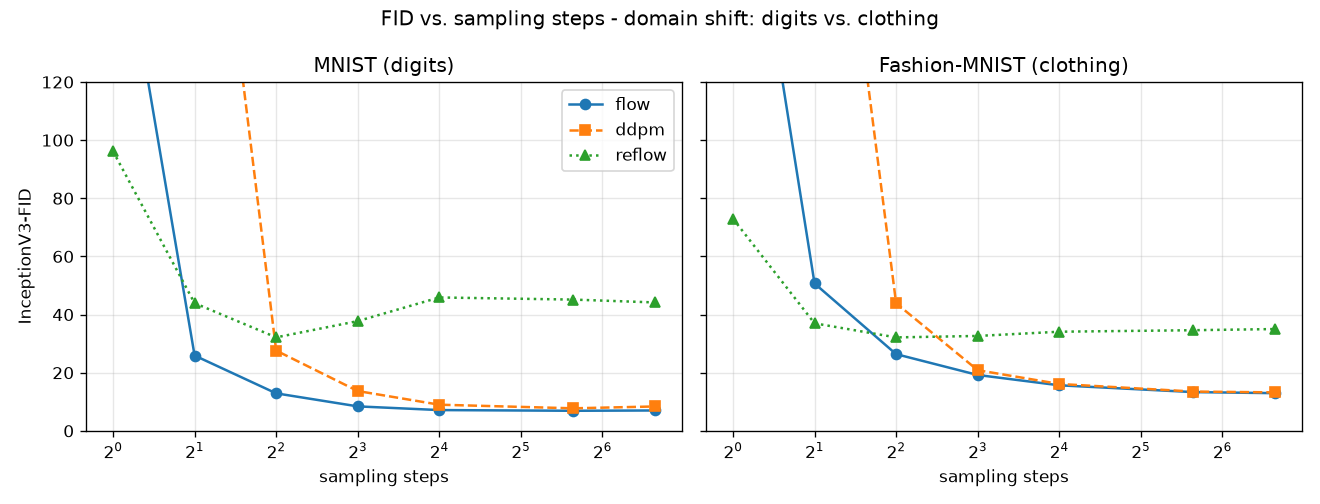
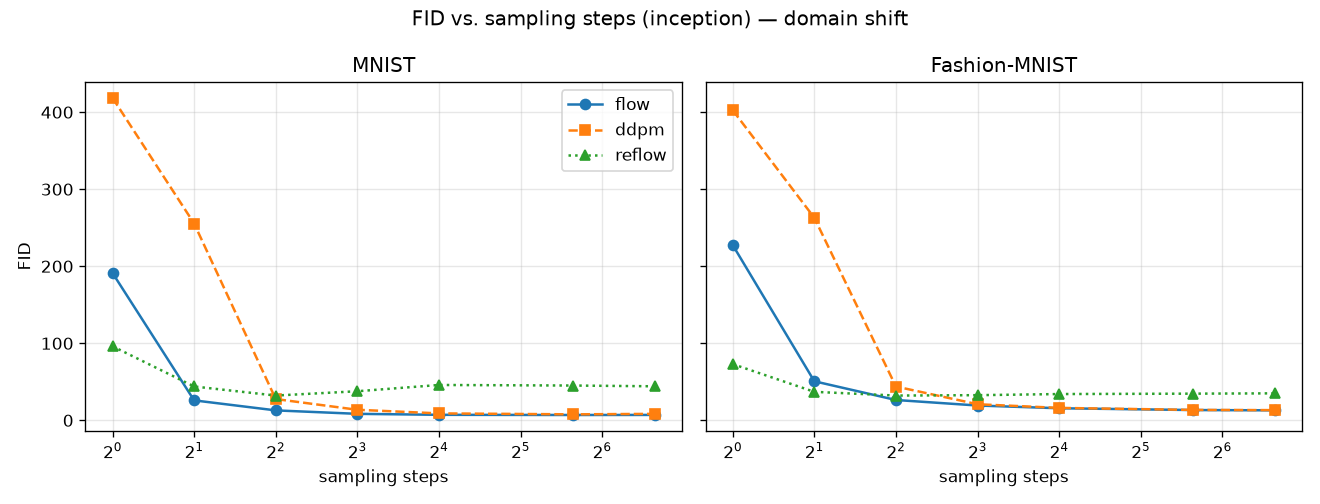
make the domain comparison reproducible, add fashion figures, tests and license

diff --git a/scripts/compare_datasets.py b/scripts/compare_datasets.py
@@ -1,0 +1,38 @@
+import argparse
+import json
+from pathlib import Path
+
+from fmfs.utils import save_comparison
+
+
+def parse_args() -> argparse.Namespace:
+    p = argparse.ArgumentParser(description="Side-by-side FID-vs-steps comparison across datasets.")
+    p.add_argument(
+        "--panels",
+        nargs="+",
+        default=["MNIST=figures/mnist/fid.json", "Fashion-MNIST=figures/fashion/fid.json"],
+        help="entries of the form label=path/to/fid.json",
+    )
+    p.add_argument("--metric", default="inception", help="metric key inside the json")
+    p.add_argument("--steps", default="1,2,4,8,16,50,100")
+    p.add_argument("--out", default="figures/comparison/fid_vs_steps_inception.png")
+    return p.parse_args()
+
+
+def main() -> None:
+    args = parse_args()
+    steps = [int(s) for s in args.steps.split(",")]
+    panels = []
+    for entry in args.panels:
+        label, path = entry.split("=", 1)
+        panels.append((label, json.load(open(path))[args.metric]))
+
+    out = Path(args.out)
+    out.parent.mkdir(parents=True, exist_ok=True)
+    title = f"FID vs. sampling steps ({args.metric}) — domain shift"
+    save_comparison(panels, steps, str(out), title)
+    print(f"saved {out}")
+
+
+if __name__ == "__main__":
+    main()

diff --git a/tests/test_basic.py b/tests/test_basic.py
@@ -1,8 +1,11 @@
+import numpy as np
 import torch
 
+from fmfs.data import DATASET_META
 from fmfs.flow import make_method
+from fmfs.metrics import frechet
 from fmfs.models import UNet
-from fmfs.utils import EMA, set_seed
+from fmfs.utils import EMA, save_comparison, set_seed
 
 
 def tiny_model() -> UNet:
@@ -69,3 +72,26 @@ def test_sample_trajectory_shape():
         x, traj = make_method(name).sample(m, y, steps=5, return_trajectory=True)
         assert x.shape == (2, 1, 32, 32)
         assert traj.shape == (6, 2, 1, 32, 32)  # steps + 1 states
+
+
+def test_dataset_meta_consistent():
+    assert {"mnist", "fashion"} <= set(DATASET_META)
+    for meta in DATASET_META.values():
+        assert meta["image_size"] == 32
+        assert meta["num_classes"] == 10
+        assert meta["channels"] == 1
+
+
+def test_frechet_zero_for_identical_stats():
+    rng = np.random.default_rng(0)
+    feats = rng.standard_normal((256, 16))
+    assert frechet(feats, feats) < 1e-6
+    shifted = feats + 5.0
+    assert frechet(feats, shifted) > 1.0
+
+
+def test_save_comparison_writes_file(tmp_path):
+    data = {m: {str(s): 10.0 / s for s in (1, 2, 4)} for m in ("flow", "ddpm")}
+    out = tmp_path / "cmp.png"
+    save_comparison([("A", data), ("B", data)], [1, 2, 4], str(out), "t")
+    assert out.exists() and out.stat().st_size > 0

diff --git a/fmfs/utils/plotting.py b/fmfs/utils/plotting.py
@@ -32,6 +32,29 @@ def save_fid_curve(curves: dict[str, tuple[list[int], list[float]]], path: str, 
     plt.close()
 
 
+def save_comparison(
+    panels: list[tuple[str, dict]], steps: list[int], path: str, title: str
+) -> None:
+    """Side-by-side FID-vs-steps panels. Each panel is (label, {method: {step: fid}})."""
+    fig, axes = plt.subplots(1, len(panels), figsize=(5.5 * len(panels), 4.2), sharey=True)
+    axes = axes if len(panels) > 1 else [axes]
+    styles = {"flow": "o-", "ddpm": "s--", "reflow": "^:"}
+    for ax, (label, data) in zip(axes, panels, strict=True):
+        for name, fmt in styles.items():
+            if name in data:
+                ax.plot(steps, [data[name][str(s)] for s in steps], fmt, label=name)
+        ax.set_xscale("log", base=2)
+        ax.set_xlabel("sampling steps")
+        ax.set_title(label)
+        ax.grid(True, which="both", alpha=0.3)
+    axes[0].set_ylabel("FID")
+    axes[0].legend()
+    fig.suptitle(title)
+    fig.tight_layout()
+    fig.savefig(path, dpi=120)
+    plt.close(fig)
+
+
 def save_loss_curve(losses: list[float], path: str) -> None:
     plt.figure(figsize=(6, 4))
     plt.plot(losses, lw=0.8)

diff --git a/fmfs/utils/__init__.py b/fmfs/utils/__init__.py
@@ -1,10 +1,17 @@
 from .ema import EMA
-from .plotting import save_fid_curve, save_loss_curve, save_samples, save_trajectory
+from .plotting import (
+    save_comparison,
+    save_fid_curve,
+    save_loss_curve,
+    save_samples,
+    save_trajectory,
+)
 from .seed import get_device, set_seed
 
 __all__ = [
     "EMA",
     "get_device",
+    "save_comparison",
     "save_fid_curve",
     "save_loss_curve",
     "save_samples",

diff --git a/README.md b/README.md
@@ -90,7 +90,8 @@ flow-matching-fewstep/
 │   ├── train.py             train a model      (--method flow|ddpm  --dataset mnist|fashion)
 │   ├── reflow.py            reflow a trained flow model
 │   ├── sample.py           generate sample grids at several step counts
-│   └── eval_fid.py         FID vs. step count for one or more checkpoints
+│   ├── eval_fid.py         FID vs. step count for one or more checkpoints
+│   └── compare_datasets.py side-by-side FID-vs-steps across datasets
 ├── notebooks/           01 demo · 02 full results (Kaggle) · 03 visual walkthrough
 ├── tests/               fast CPU tests (pytest)
 ├── figures/             committed figures, grouped by mnist/ · fashion/ · comparison/
@@ -156,8 +157,12 @@ uv run python -m scripts.eval_fid \
 
 This writes `results/fid/fid.json` and one `fid_vs_steps_<metric>.png` per metric.
 
-**Domain shift.** Repeat steps 1–4 with `--dataset fashion` (and `--dataset fashion` on
-`eval_fid`) to get the Fashion-MNIST results.
+**5. Domain shift.** Repeat steps 1–4 with `--dataset fashion` (and `--dataset fashion` on
+`eval_fid`), then build the side-by-side comparison from the two `fid.json` files:
+
+```bash
+uv run python -m scripts.compare_datasets     # writes figures/comparison/
+```
 
 **Prerequisites:** Python 3.11, ~2 GB disk for datasets + checkpoints, and internet on first
 run (dataset + InceptionV3 download). A GPU is optional locally but strongly recommended for

diff --git a/figures/README.md b/figures/README.md
@@ -15,5 +15,9 @@ mnist/          results on MNIST (digits)
   ddpm_100steps_cfg{1,2}_*.png  the guidance-vs-steps finding (§3.3 of the report)
 fashion/        the same, on Fashion-MNIST (clothing) — the domain-shift run
 comparison/
-  fid_vs_steps_inception.png    MNIST vs. Fashion side by side
+  fid_vs_steps_inception.png    MNIST vs. Fashion side by side (InceptionV3)
+  fid_vs_steps_classifier.png   MNIST vs. Fashion side by side (classifier-FID)
 ```
+
+Regenerate the comparison plots from the committed JSONs with
+`python -m scripts.compare_datasets` (no training needed).

diff --git a/report/REPORT.md b/report/REPORT.md
@@ -132,5 +132,7 @@ while DDPM is still noise. InceptionV3-FID (no guidance):
 
 ## 5. Reproducibility
 
-All figures are produced by `notebooks/02_results.ipynb` (runs on a Kaggle T4). Seeds are
-fixed; checkpoints store their own architecture. See `AI_USAGE.md` for the AI-use statement.
+All figures are produced by `notebooks/02_results.ipynb` (runs on a Kaggle T4); the
+domain-shift comparison plot is regenerated from the saved FID JSONs by
+`scripts/compare_datasets.py`. Seeds are fixed; checkpoints store their own architecture.
+See `AI_USAGE.md` for the AI-use statement.

diff --git a/AI_USAGE.md b/AI_USAGE.md
@@ -4,11 +4,11 @@ As required by the course, this states how AI tools were used in this project.
 
 I used AI coding assistants (chat-based, e.g. ChatGPT / Gemini) as a support tool while
 building this project — mainly for boilerplate, looking up PyTorch/API details, debugging, and
-tidying up documentation. All the substantive decisions were mine: the research question and
+tidying up documentation. All the substantive decisions were mine likeü the research question and
 hypothesis, the choice of models (Flow Matching, DDPM baseline, reflow), the architecture and
 training setup, the evaluation (which FID metrics, the domain-shift experiment), and the
 interpretation of the results. I reviewed and tested the code myself and verified the outputs
 before drawing conclusions.
 
-AI was **not** used to fabricate any results — all figures and FID numbers come from actual
+AI was **not** used to fabricate any results all figures and FID numbers come from actual
 training runs on Kaggle, reproducible from the notebooks and scripts in this repository.